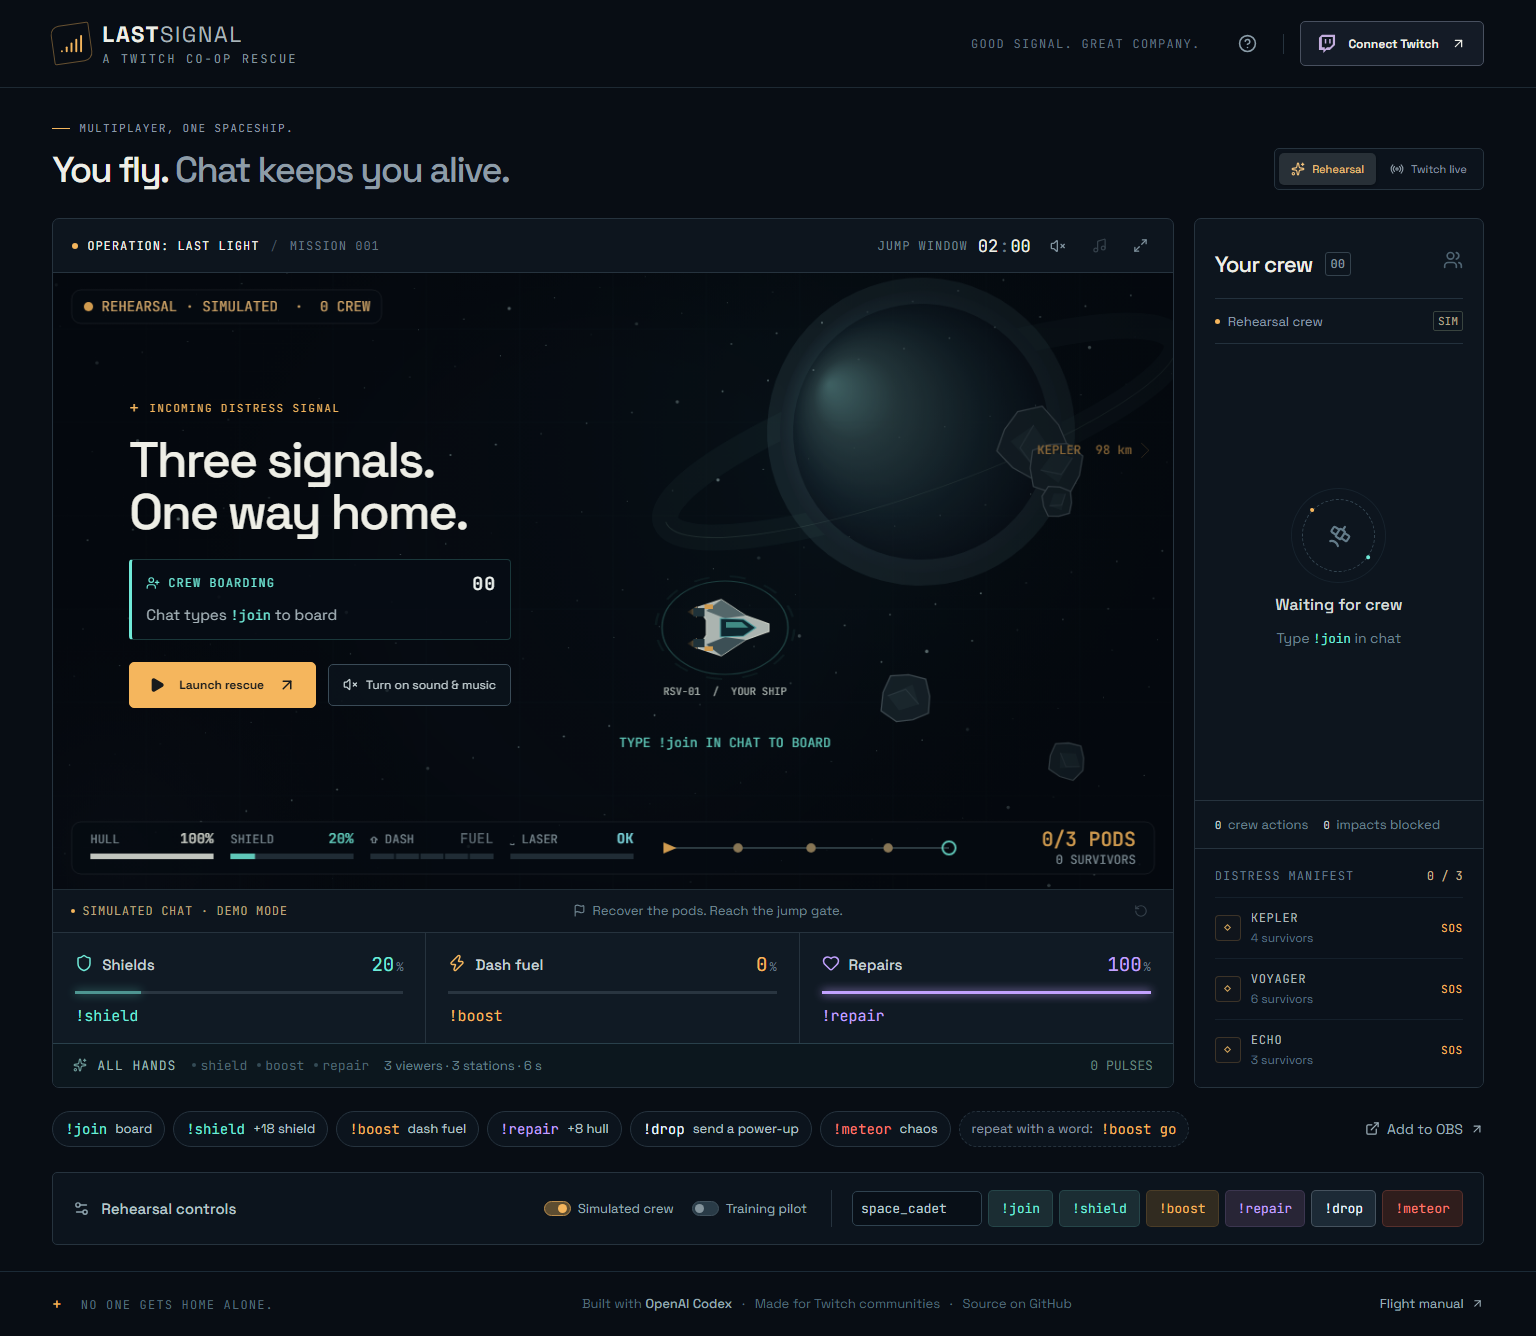
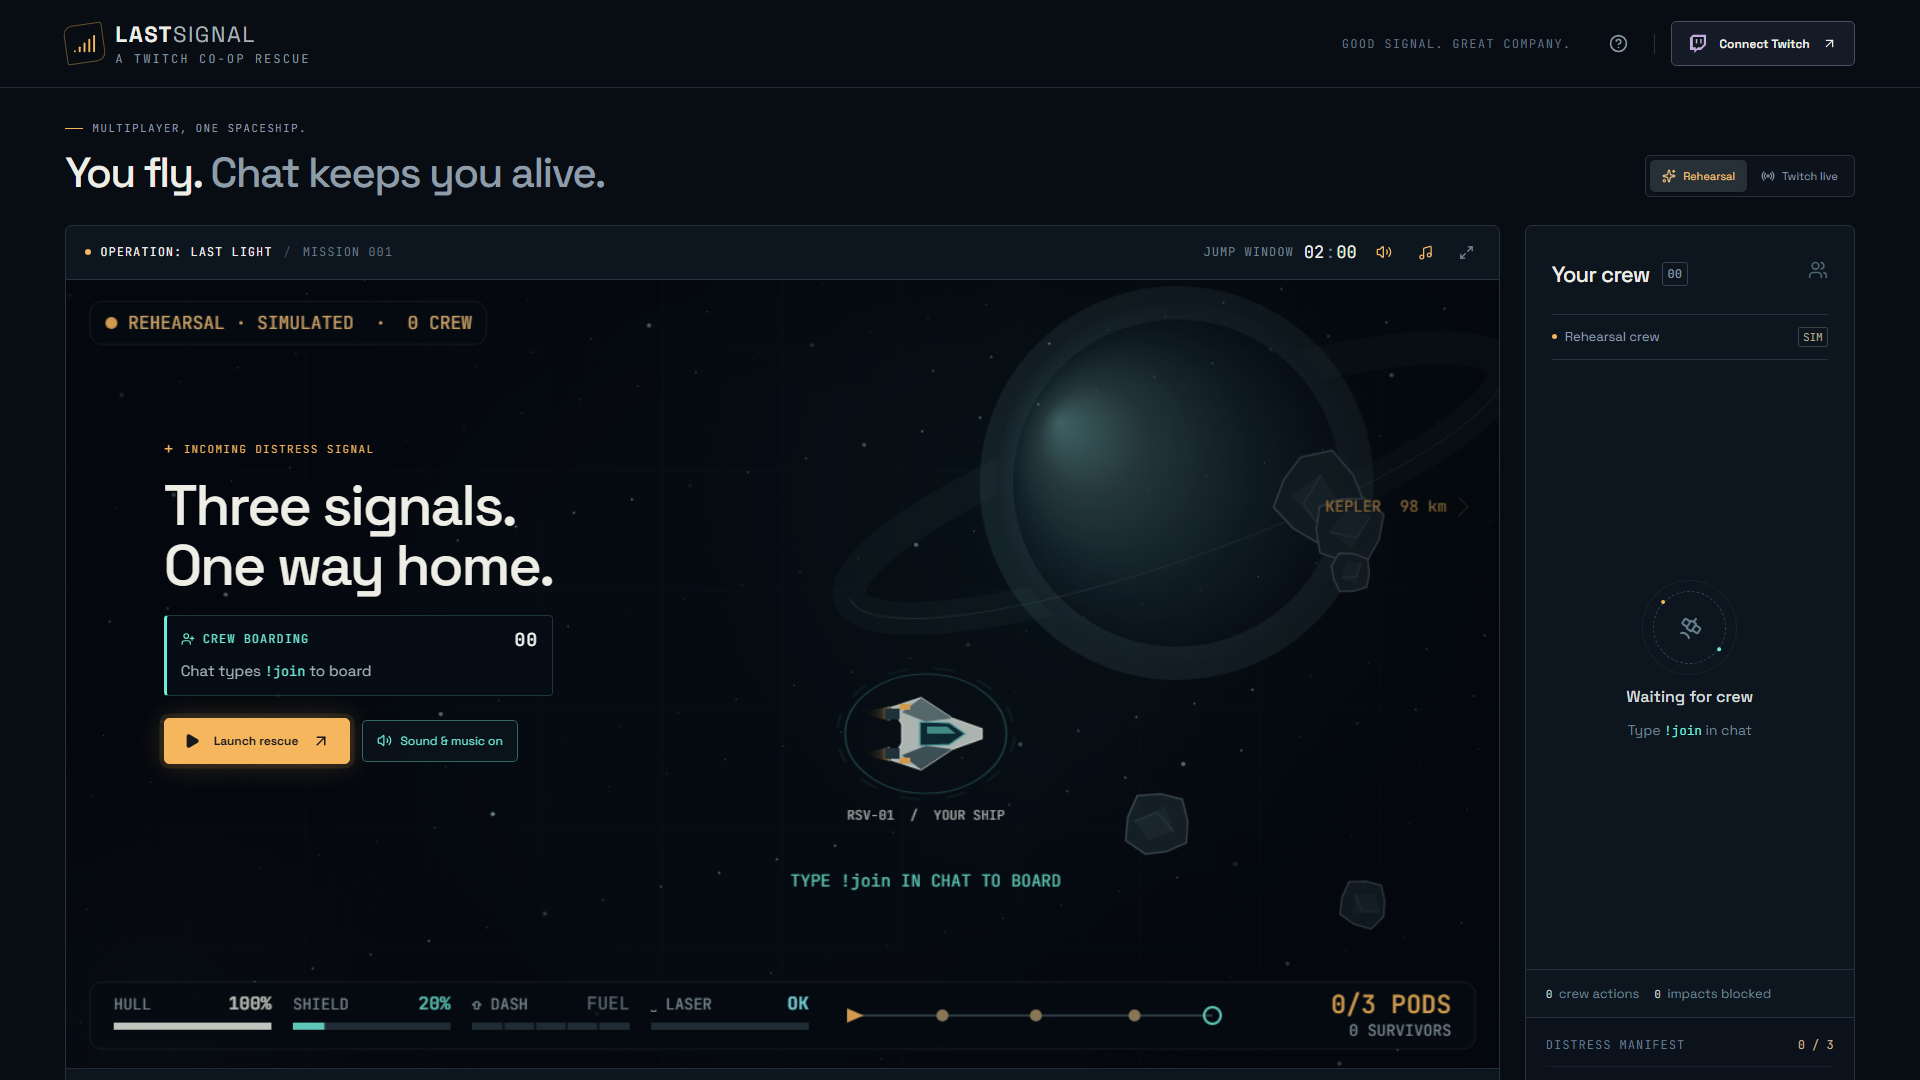
Use website ready screen for video opening

diff --git a/docs/GALLERY.md b/docs/GALLERY.md
@@ -41,7 +41,7 @@ You fly. Chat keeps you alive.
 
 LAST SIGNAL is a Twitch co-op space rescue. The pilot steers, fires a laser, dashes with fuel from chat, and fires caught power-ups with E. Viewers board with !join, supply !shield, !boost and !repair, send crates with !drop, or throw named meteors with !meteor. Three distinct viewers coordinating the three stations trigger ALL HANDS. Rescue three pods and bring 13 survivors home before the two-minute jump window closes.
 
-The demo captures the actual game with labeled simulated chat, keyboard-controlled flight, all three power-ups being caught and fired, laser fire, dashes, named meteors, and a complete rescue of all 13 survivors. It uses automated keyboard control with the built-in training pilot disabled. Both versions include captured game music and effects. Only the version without narration has embedded captions; the voiceover version has no added subtitles. The voiceover version uses AI-generated Grady narration through Higgsfield; the other version has no narration.
+The voiceover demo opens on the local website's ready screen before the mission starts. The demo captures the actual game with labeled simulated chat, keyboard-controlled flight in all four directions, all three power-ups being caught and fired, laser fire, dashes, named meteors, and a complete rescue of all 13 survivors. It uses automated keyboard control with the built-in training pilot disabled. Both versions include captured game music and effects. Only the version without narration has embedded captions; the voiceover version has no added subtitles. The voiceover version uses AI-generated Grady narration through Higgsfield; the other version has no narration.
 
 The video also shows real Twitch viewer anashk999 sending join, boost, drop and meteor, all accepted by the live game. The connection dialog confirms four actual messages received. OAuth/EventSub remains optional and fixture-tested.
 

diff --git a/docs/DEMO_SCRIPT.md b/docs/DEMO_SCRIPT.md
@@ -5,7 +5,7 @@ Two 1080p H.264/AAC exports are available in the GitHub release:
 - `last-signal-voiceover-game-audio.mp4`: Grady neural narration and game music/effects, with no added subtitles. The narration uses Seed Audio 1.0 through Higgsfield and is AI-generated.
 - `last-signal-captions-game-audio.mp4`: embedded captions, game music and effects, with no narration.
 
-Both run for approximately 2:18. Captions occupy a separate lower band, keeping the flight HUD visible. Music ducks under narration in the voiceover version. The gameplay is continuous, followed by the result card from the same mission. The recording rescued all 13 survivors and shows nova bomb, bubble shield and overdrive guns being caught and fired, plus laser fire, dashes, named meteors and ALL HANDS.
+Both run for approximately 2:18. The voiceover version opens on the local website's ready screen before the mission begins. Captions occupy a separate lower band in the captioned version, keeping the flight HUD visible. The voiceover version has no added subtitles. Music ducks under narration in the voiceover version. The gameplay is continuous, followed by the result card from the same mission. The recording rescued all 13 survivors and shows nova bomb, bubble shield and overdrive guns being caught and fired, plus laser fire, dashes, named meteors and ALL HANDS.
 
 The footage uses labeled simulated chat and automated keyboard control with the built-in training pilot disabled. It is a capture of the actual game and its Web Audio output, not a rendered or scripted game outcome. The separate live section shows actual commands received from Twitch and a confirmed connection with four real messages.
 
